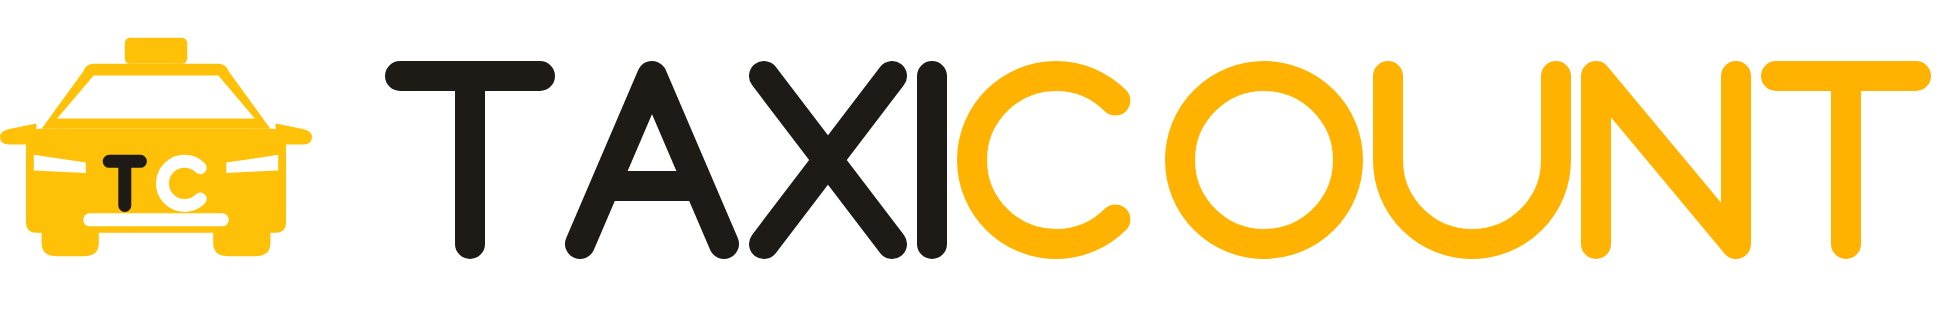
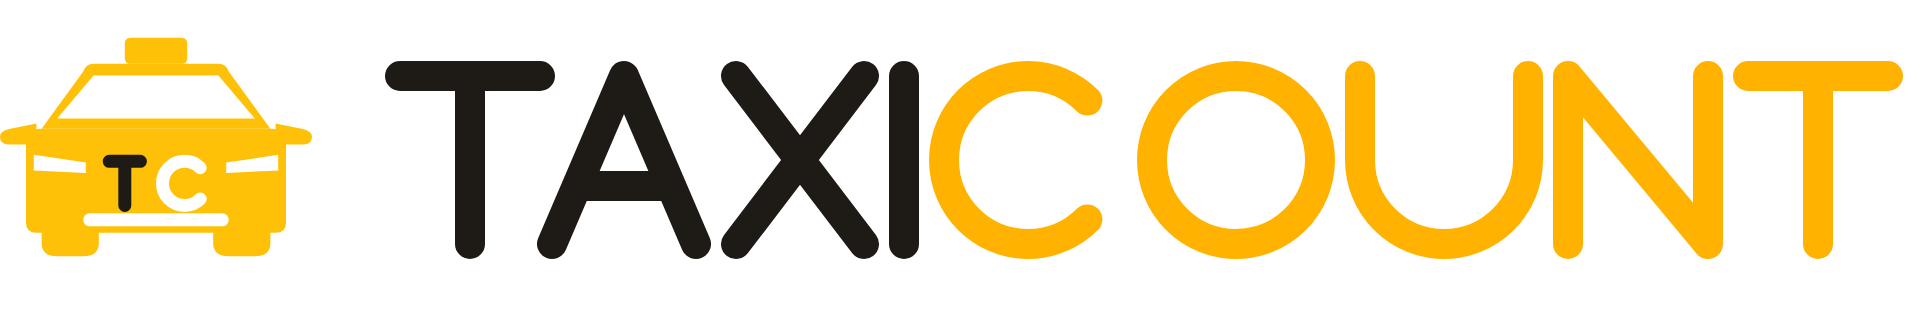
fix(branding): interletraje del par T-A en el logotipo
El hueco bajo el brazo de la T dejaba la A visiblemente descolgada. Se aplica
un ajuste de -14 unidades al par y se desplaza el resto de la palabra para
conservar el espaciado relativo. Probados -8, -14 y -20; con -20 las letras se
agobian.

El logotipo pasa de 758 a 744 unidades de ancho, con los viewBox y el centrado
de la version vertical recalculados. PNG regenerados.

diff --git a/brand/README.md b/brand/README.md
@@ -87,3 +87,9 @@ negro en las dos versiones, porque va sobre la carrocería ámbar.
 
 `hoja-de-marca.png` es la hoja resumen de toda la identidad: sirve para ver todos los
 activos de un vistazo sin abrir archivo por archivo.
+
+## Interletraje
+
+El par **T-A** de "TAXI" lleva un ajuste de **−14 unidades**: el hueco bajo el brazo de la T
+deja aire de más y sin corregirlo la A se ve descolgada. Se probaron −8, −14 y −20; con −20
+las dos letras se agobian. Si algún día se rehace el logotipo, ese ajuste hay que mantenerlo.
